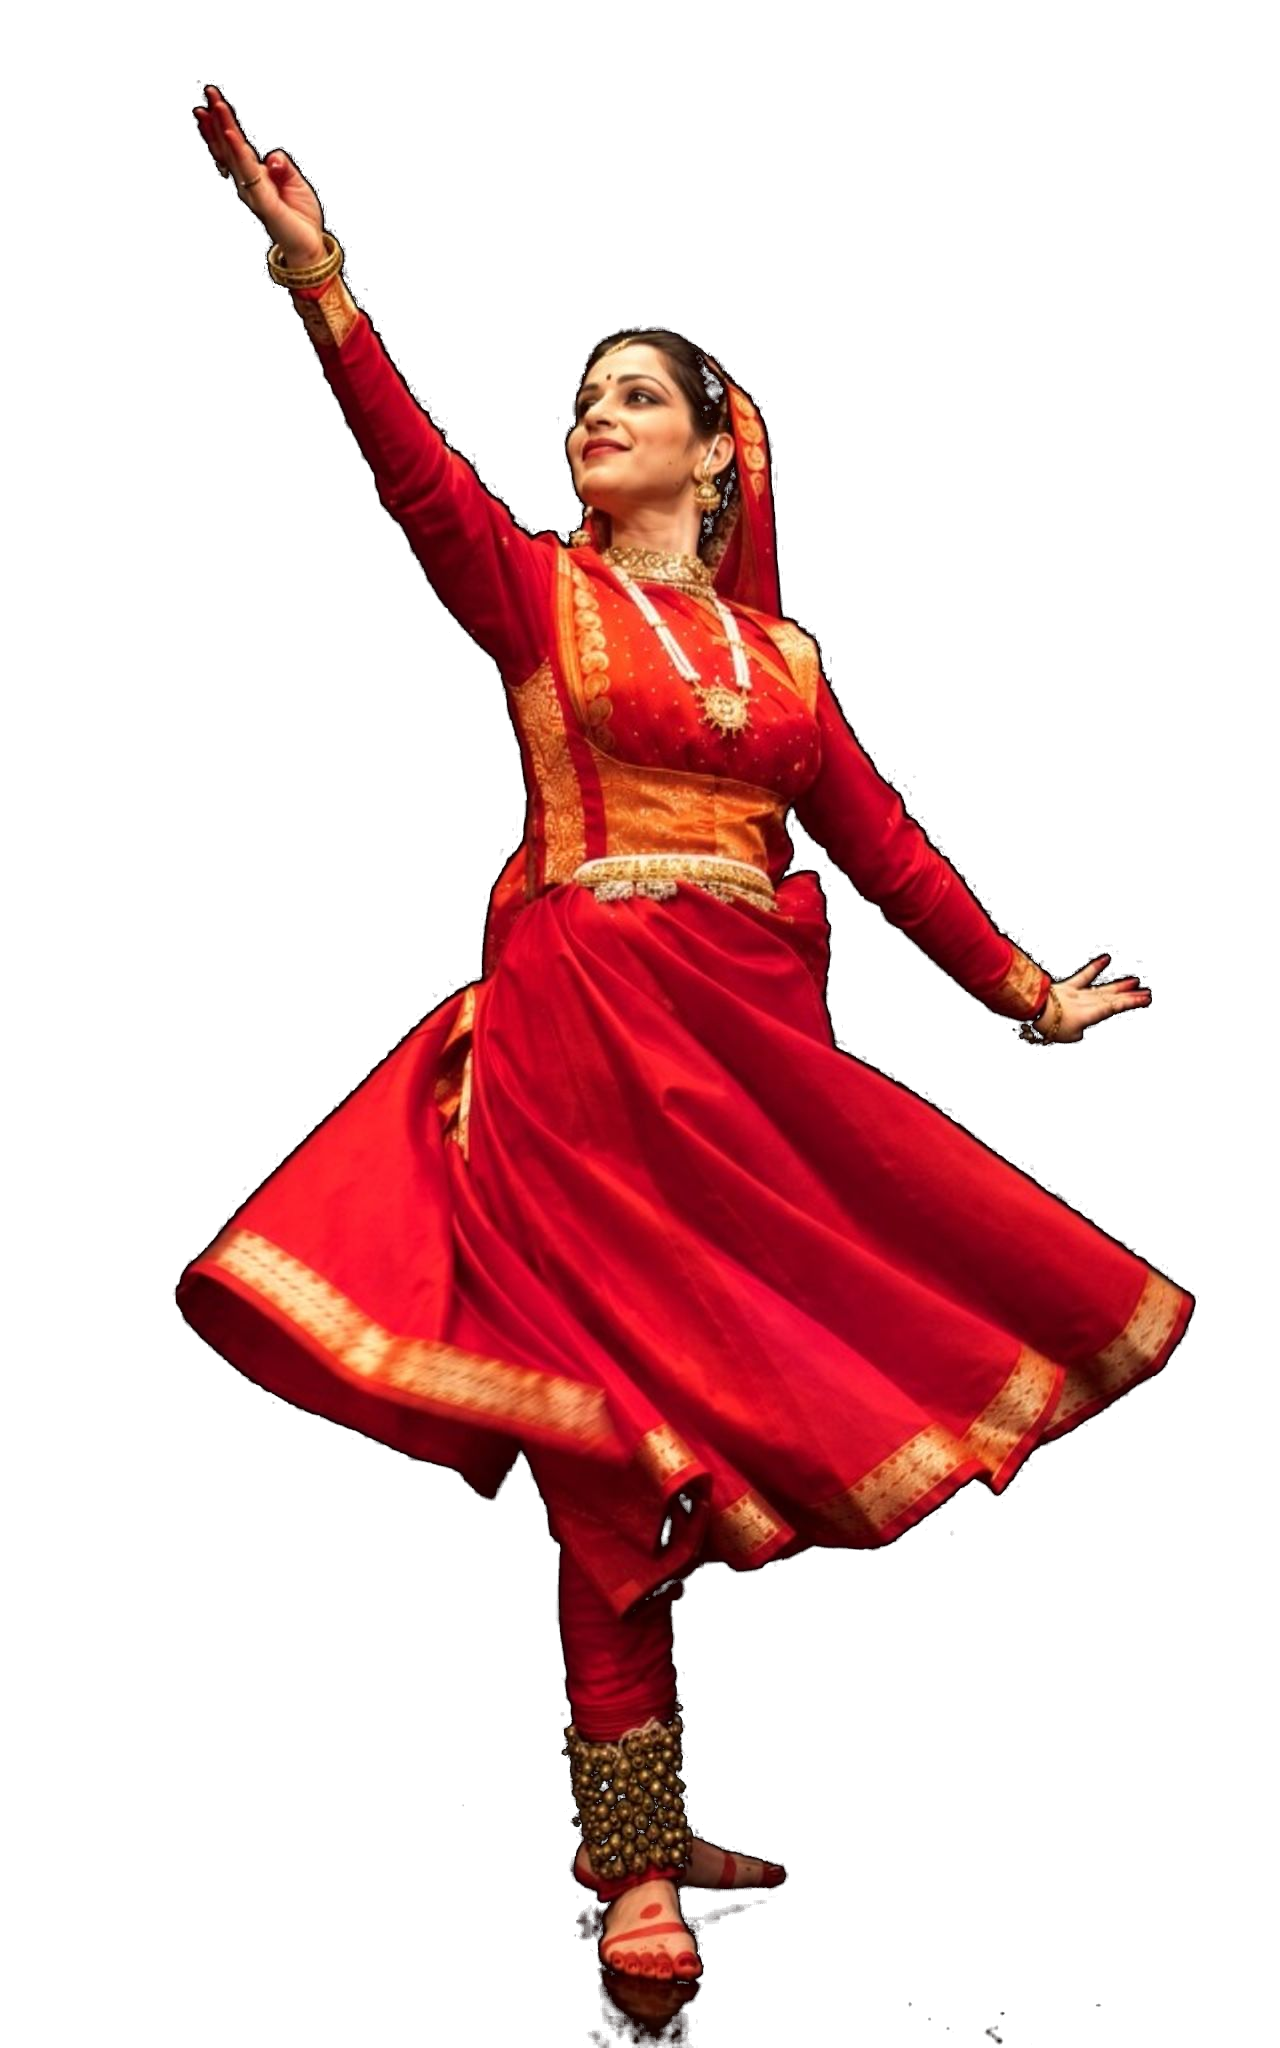
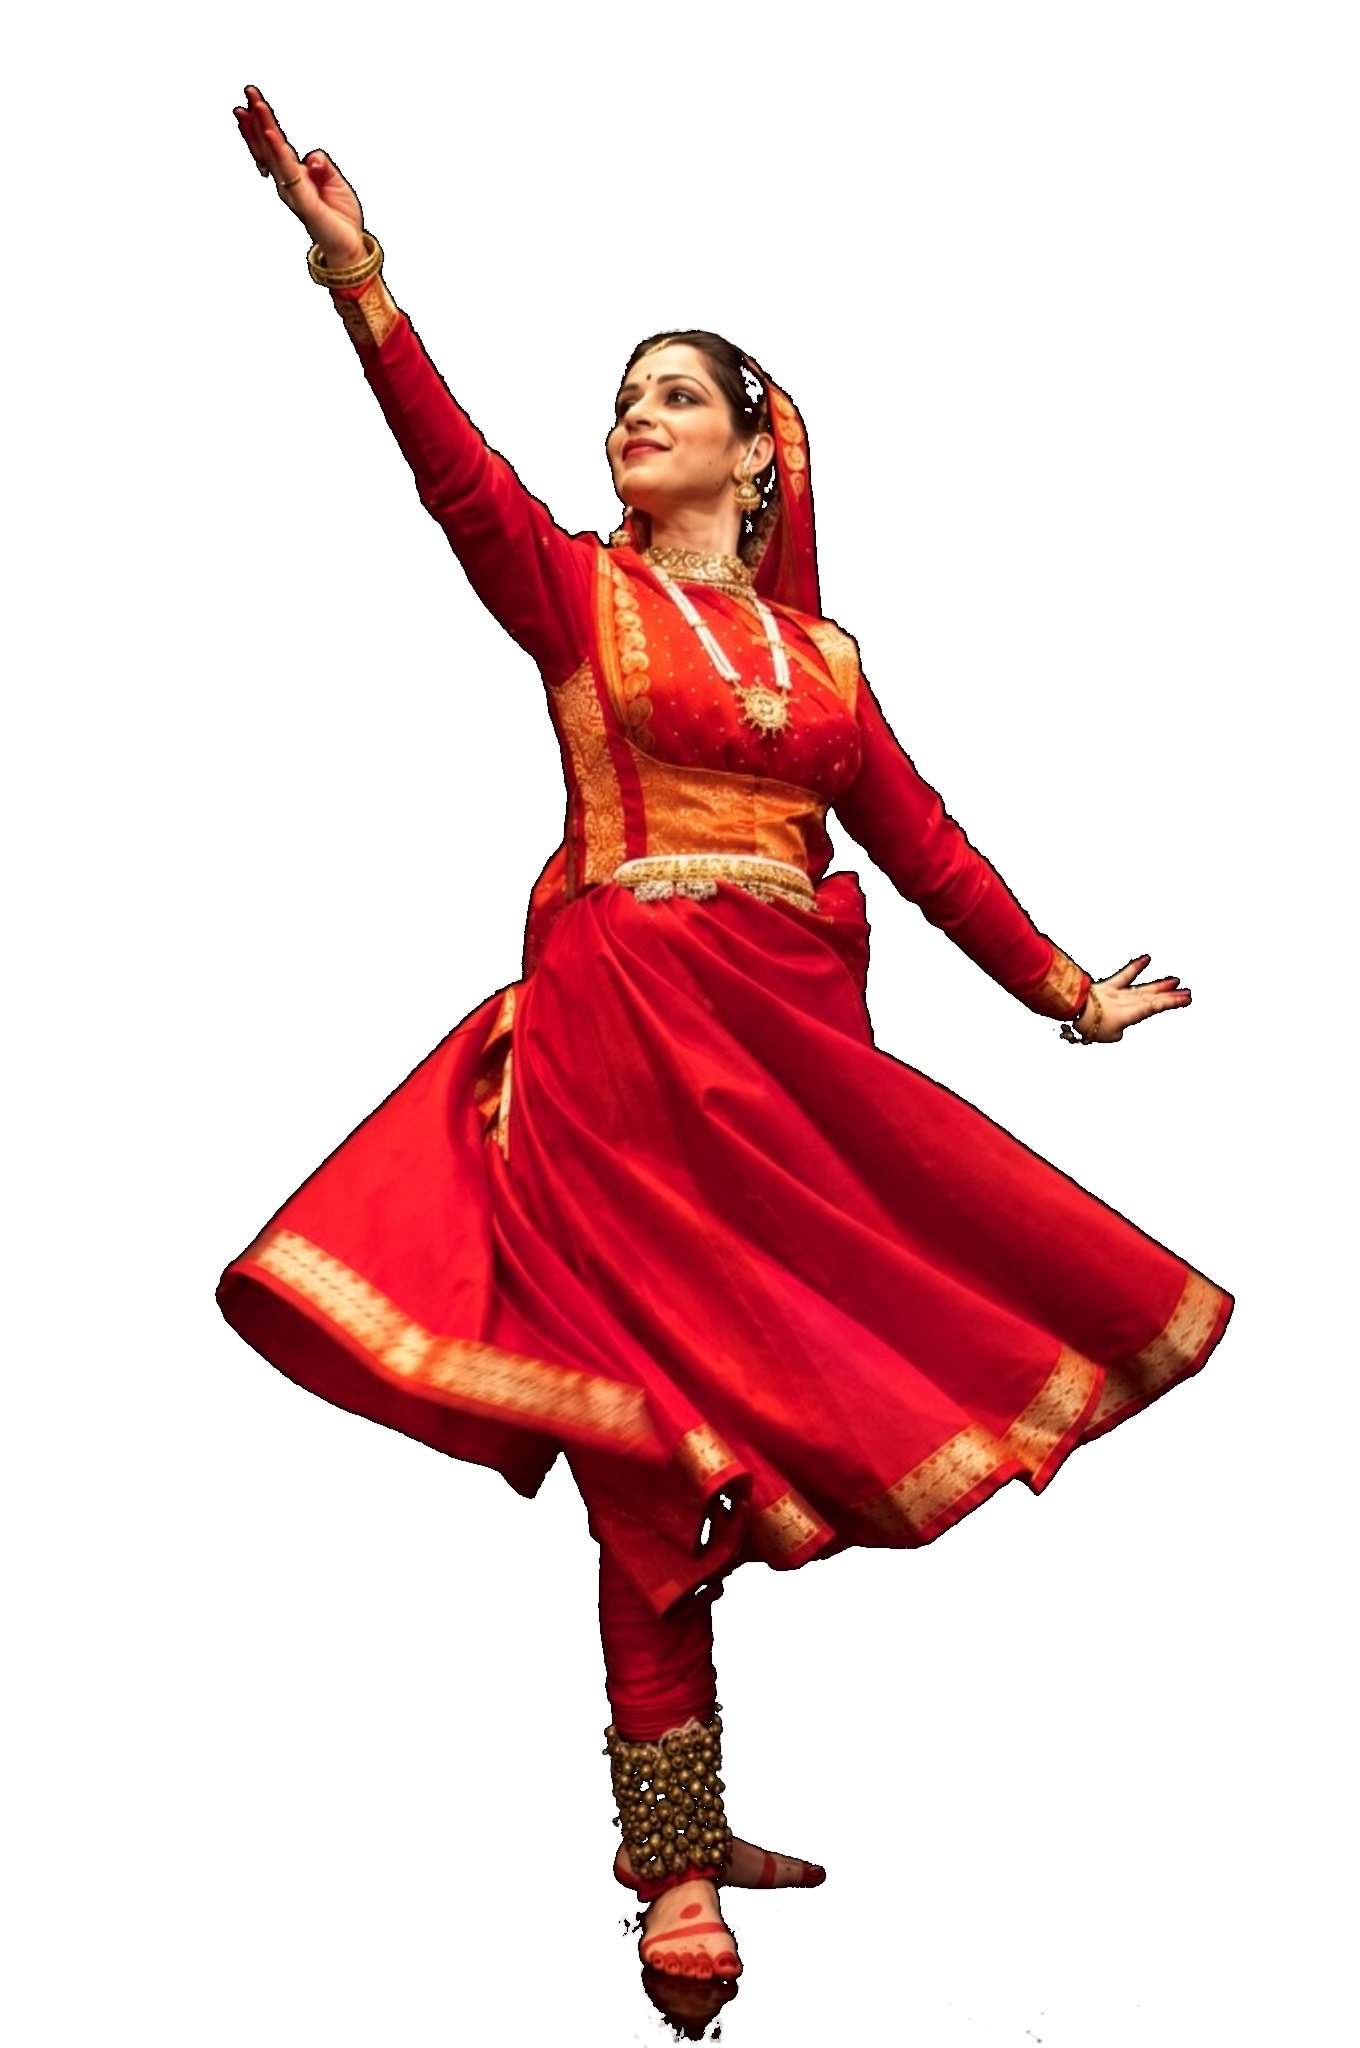
Restore 100vh Kathak hero section, seamless transparent dancer cutout, and previous right image design

Changed region(s): [[0.125, 0.0312, 0.9375, 0.7812], [0.4375, 0.75, 0.625, 1.0]]

diff --git a/app/kathak/kathak.module.css b/app/kathak/kathak.module.css
@@ -21,14 +21,14 @@
 .hero {
   position: relative;
   width: 100%;
-  min-height: 88vh;
+  min-height: 100vh;
   display: flex;
   flex-direction: column;
   justify-content: center;
   background-color: #17120f;
   background-image: 
-    radial-gradient(circle at 75% 45%, rgba(212, 173, 98, 0.18) 0%, rgba(33, 23, 19, 0.6) 45%, transparent 75%),
-    radial-gradient(circle at 25% 40%, rgba(33, 23, 19, 0.8) 0%, transparent 60%);
+    radial-gradient(circle at 75% 50%, rgba(212, 173, 98, 0.22) 0%, rgba(33, 23, 19, 0.65) 45%, transparent 75%),
+    radial-gradient(circle at 25% 45%, rgba(33, 23, 19, 0.85) 0%, transparent 60%);
   overflow: hidden;
   box-sizing: border-box;
 }
@@ -36,8 +36,8 @@
 .heroBackdropImageWrap {
   position: absolute;
   top: 0;
-  right: 3vw;
-  width: 44vw;
+  right: 0;
+  width: 48vw;
   height: 100%;
   z-index: 2;
   pointer-events: none;
@@ -51,7 +51,7 @@
   object-fit: contain !important;
   object-position: right center !important;
   opacity: 1 !important;
-  filter: brightness(1.02) contrast(1.05) drop-shadow(0 20px 40px rgba(0, 0, 0, 0.75)) !important;
+  filter: brightness(1.02) contrast(1.05) drop-shadow(0 15px 35px rgba(0, 0, 0, 0.5)) !important;
 }
 
 .heroBackdropOverlay {
@@ -65,14 +65,14 @@
   background: linear-gradient(
     90deg,
     #17120f 0%,
-    rgba(23, 18, 15, 0.8) 22%,
-    rgba(23, 18, 15, 0.35) 50%,
-    rgba(23, 18, 15, 0.05) 100%
+    rgba(23, 18, 15, 0.85) 25%,
+    rgba(23, 18, 15, 0.3) 55%,
+    transparent 100%
   ),
   linear-gradient(
     180deg,
-    rgba(23, 18, 15, 0.3) 0%,
-    transparent 35%,
+    rgba(23, 18, 15, 0.4) 0%,
+    transparent 30%,
     rgba(23, 18, 15, 0.4) 100%
   );
 }
